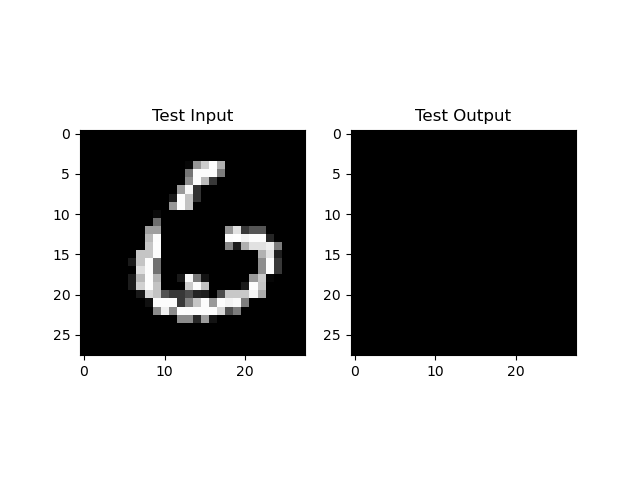
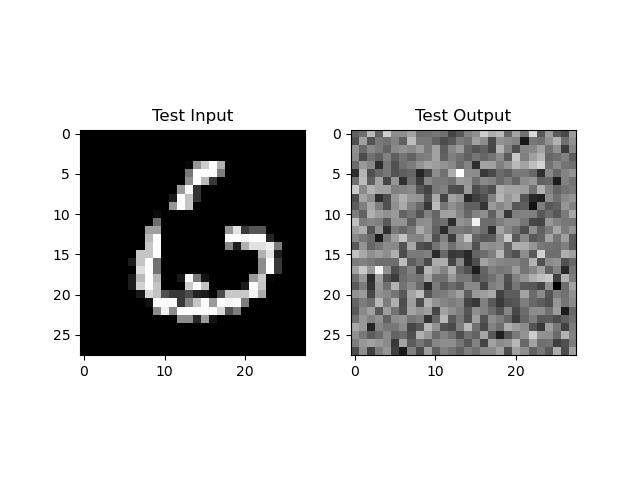
model that doesnt work

Changed region(s): [[0.5312, 0.25, 0.9062, 0.75]]

diff --git a/Proj3/task3_be9ai3nsdj/template_solution.py b/Proj3/task3_be9ai3nsdj/template_solution.py
@@ -121,27 +121,29 @@ def training(train_data_input, train_data_label, **kwargs):
 
     # TODO: Dummy criterion - change this to the correct loss function
     # https://pytorch.org/docs/stable/nn.html#loss-functions
-    criterion = lambda x, y: torch.mean((x))
+    # criterion = lambda x, y: torch.mean((x))
+    criterion = nn.CrossEntropyLoss()
     # TODO: Dummy optimizer - change this to a more suitable optimizer
-    optimizer = torch.optim.SGD(model.parameters())
+    # optimizer = torch.optim.SGD(model.parameters())
+    optimizer = torch.optim.Adam(model.parameters(), lr=0.001)
 
     # TODO: Correctly setup the dataloader - the below is just a placeholder
     # Also consider that you might not want to use the entire dataset for
     # training alone
     # (batch_size needs to be changed)
-    batch_size = 1
+    batch_size = 100
     dataset = TensorDataset(train_data_input, train_data_label)
     # Consider the shuffle parameter and other parameters of the DataLoader
     # class (see
     # https://pytorch.org/docs/stable/data.html#torch.utils.data.DataLoader)
-    data_loader = DataLoader(dataset, batch_size=batch_size)
+    data_loader = DataLoader(dataset, batch_size=batch_size, shuffle=True)
 
     # Training loop
     # TODO: Modify the training loop in case you need to
 
     # TODO: The value of n_epochs is just a placeholder and likely needs to be
     # changed
-    n_epochs = 1
+    n_epochs = 3
 
     for epoch in range(n_epochs):
         for x, y in tqdm(
@@ -173,6 +175,11 @@ class Model(nn.Module):
         super().__init__()
         self.fc = nn.Linear(784, 784)
 
+        # added stuff
+        self.activation = torch.nn.ReLU()
+        self.linear1 = torch.nn.Linear(784, 784)
+        self.LogSoftmax = torch.nn.LogSoftmax()
+
     def forward(self, x):
         """
         The forward pass of the model.
@@ -185,6 +192,12 @@ class Model(nn.Module):
         x = x.view(x.shape[0], -1)
         x = self.fc(x)
         x = F.relu(x)
+
+        # added stuff
+        x = self.activation(x)
+        x = self.linear1(x)
+        x = self.LogSoftmax(x)
+
         # Reshape the image to the original shape
         x = x.view(x.shape[0], 1, 28, 28)
         return x
